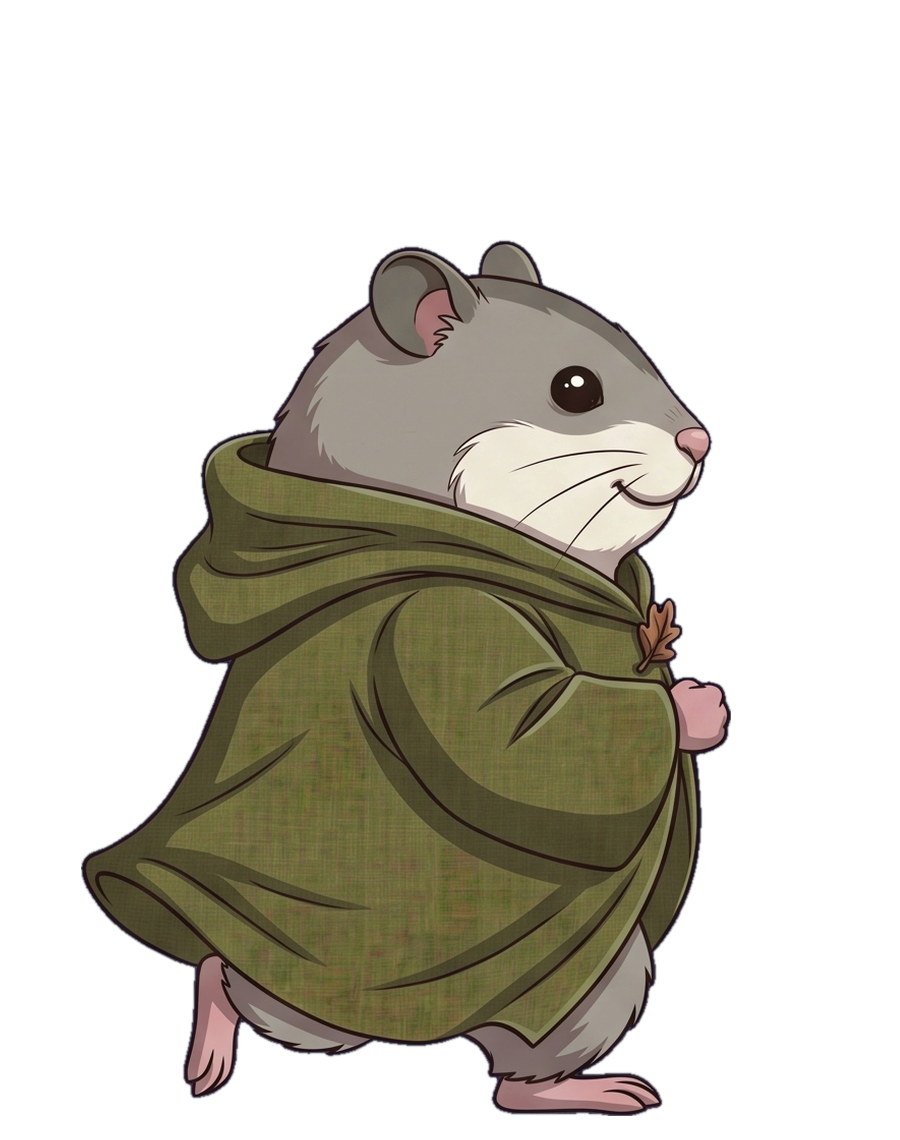
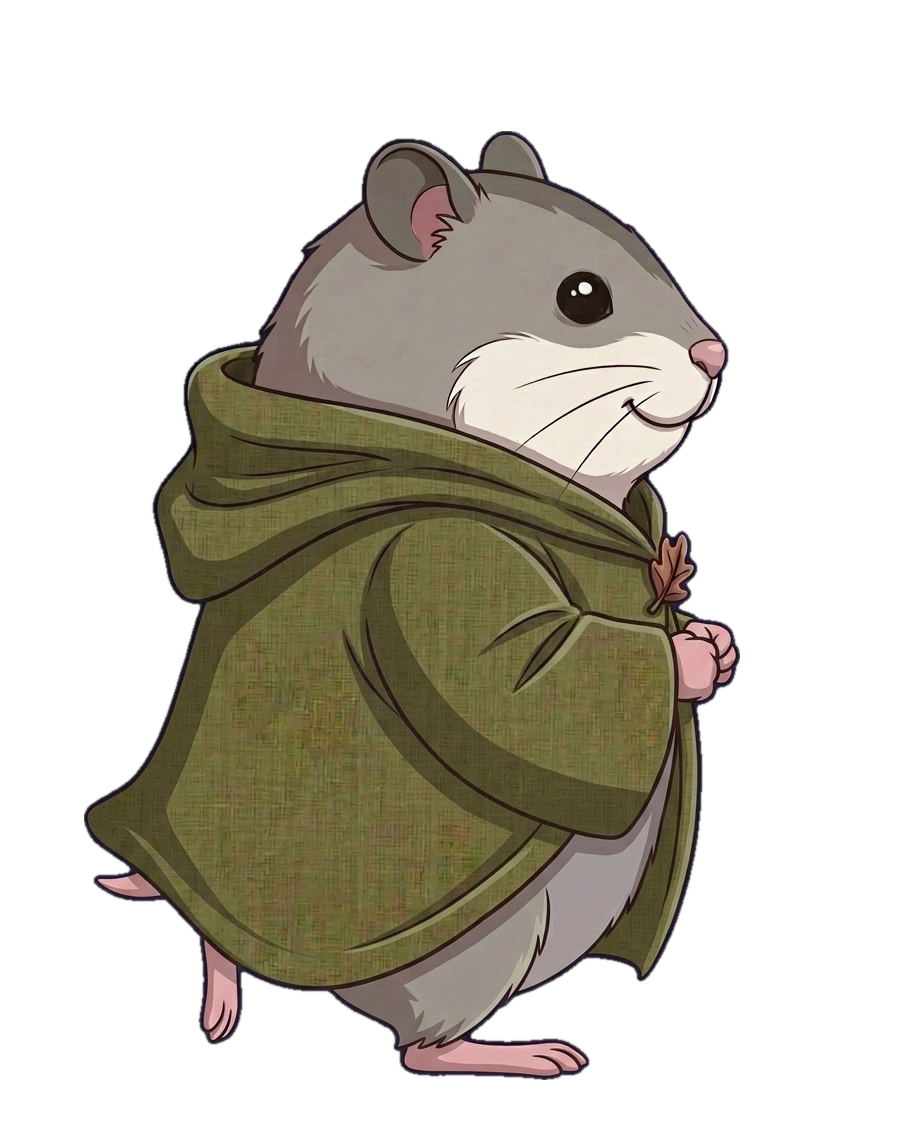
ムスビの走りを8コマ（1コマずつ生成）に差し替え。取りこみで、コマの上下位置を残す

diff --git a/frontend/src/components/ForestRun.tsx b/frontend/src/components/ForestRun.tsx
@@ -124,8 +124,8 @@ const FLYERS: Record<string, FlyerKind> = {
 };
 const BIRD_FRAMES = 4;
 
-const RUN_RATE = 9; // 走りのコマを進める速さ（コマ/秒）
-const RUN_FRAMES = Array.from({ length: 4 }, (_, i) => `musubi_walk_${String(i + 1).padStart(2, '0')}`);
+const RUN_RATE = 12; // 走りのコマを進める速さ（コマ/秒）
+const RUN_FRAMES = Array.from({ length: 8 }, (_, i) => `musubi_walk_${String(i + 1).padStart(2, '0')}`);
 const MUSUBI_NAMES = [...RUN_FRAMES, 'musubi_jump_up_right', 'musubi_fall_right', 'musubi_land_right', 'musubi_hit_right', 'musubi_cheer_front_1', 'musubi_sad_front'];
 const IMAGE_NAMES = [
   ...RUN_FRAMES,

diff --git a/frontend/src/minigames/acornCatch.ts b/frontend/src/minigames/acornCatch.ts
@@ -13,8 +13,8 @@ const MUSUBI_H = 132;
 const MUSUBI_SINK = 12;
 const FACE_DX = 26;
 const CATCH_HALF = 62; // 受けとめられる、横の幅（ムスビの中心から）
-const RUN_RATE = 9; // 走りのコマを進める速さ（コマ/秒）
-const RUN_FRAMES = Array.from({ length: 4 }, (_, i) => `musubi_walk_${String(i + 1).padStart(2, '0')}`);
+const RUN_RATE = 12; // 走りのコマを進める速さ（コマ/秒）
+const RUN_FRAMES = Array.from({ length: 8 }, (_, i) => `musubi_walk_${String(i + 1).padStart(2, '0')}`);
 
 interface Conf {
   target: number; // 集める点数

diff --git a/tools/split_run_sheet.py b/tools/split_run_sheet.py
@@ -33,6 +33,7 @@ def cut_sheet(sheet):
     a = sheet.split()[-1].point(lambda v: 255 if v > 128 else 0)
     rows = runs([a.crop((0, y, W, y + 1)).getbbox() is not None for y in range(H)])
     crops = []
+    bottoms = []
     for (y0, y1) in rows:
         band = a.crop((0, y0, W, y1))
         cols = runs([band.crop((x, 0, x + 1, y1 - y0)).getbbox() is not None for x in range(W)])
@@ -45,9 +46,11 @@ def cut_sheet(sheet):
                     r, g, b, al = px0[xx, yy]
                     if al and b > r + 40 and b > g + 40:
                         px0[xx, yy] = (r, g, b, 0)
-            frame = frame.crop(frame.split()[-1].getbbox())
+            bb = frame.split()[-1].getbbox()
+            frame = frame.crop(bb)
             crops.append(frame)
-    return crops
+            bottoms.append(y0 + bb[3])  # 絵の中での、いちばん下の位置
+    return crops, bottoms
 
 
 def main():
@@ -61,11 +64,13 @@ def main():
     else:
         srcs = [big if big.exists() else GAMES / 'musubi_run_sheet.png']
     crops = []
+    bottoms = []
     for src in srcs:
         sheet = Image.open(src).convert('RGBA')
-        part = cut_sheet(sheet)
+        part, bot = cut_sheet(sheet)
         print('source', src.name, sheet.size, '->', len(part), 'frames')
         crops += part
+        bottoms += bot
     # 出力の大きさの倍率：切り出したコマの、体の高さ（中央値）から決める。基準（k=1）は、体の高さ約290。
     # 大きすぎると、スマホで重いので、最大3倍（900×1140）まで
     hs = sorted(f.size[1] for f in crops)
@@ -94,8 +99,11 @@ def main():
     heights = sorted(head_height(f) for f in crops)
     median = heights[len(heights) // 2]
     frames = []
-    for f in crops:
+    lifts = []
+    ref_bottom = max(bottoms)  # いちばん低い足（地面についている足）の位置
+    for f, bt in zip(crops, bottoms):
         kk = min(1.3, max(0.8, median / head_height(f)))
+        lifts.append((ref_bottom - bt) * kk)
         if abs(kk - 1) > 0.01:
             f = f.resize((round(f.size[0] * kk), round(f.size[1] * kk)), Image.LANCZOS)
         fa = f.split()[-1]
@@ -111,11 +119,13 @@ def main():
                     tot += 1
         frames.append((f, xs / tot if tot else fw / 2))
 
-    # 体の上下のゆれが大きすぎるので、頭の高さを、平均に近づける（足の高さは、そのぶん、動く）
-    tops = [BASE - f.size[1] for f, _ in frames]
+    # 体の上下のゆれ：1コマずつの絵（singles）は、絵の中での、体の上下・足の浮きを、そのまま残す。
+    # シートの絵は、ゆれが大きすぎるので、頭の高さを、平均に近づける（足の高さは、そのぶん、動く）
+    keep = 1.0 if singles else BOB_KEEP
+    tops = [BASE - f.size[1] - (lifts[i] if singles else 0) for i, (f, _) in enumerate(frames)]
     mean_top = sum(tops) / len(tops)
     for n, ((frame, cx), top) in enumerate(zip(frames, tops), start=1):
-        target_top = mean_top + (top - mean_top) * BOB_KEEP
+        target_top = mean_top + (top - mean_top) * keep
         canvas = Image.new('RGBA', (CW, CH), (0, 0, 0, 0))
         ox = int(round(CW / 2 - cx))
         canvas.alpha_composite(frame, (ox, int(round(target_top))))

diff --git a/tools/chroma_key.py b/tools/chroma_key.py
@@ -17,6 +17,7 @@ def main():
     ap.add_argument('--thresh', type=int, default=60, help='背景色と見なす色の差の許容')
     ap.add_argument('--global-key', action='store_true', help='背景色に近い画素を、つながっていなくても、すべて透明にする（絵の中に、背景と同じ色の穴があるとき）')
     ap.add_argument('--black', action='store_true', help='黒背景の光の効果：明るさを透明度にする')
+    ap.add_argument('--no-crop', action='store_true', help='余白を切り詰めない（コマの、絵の中での、上下の位置を残したいとき）')
     ap.add_argument('--keep-margin', type=int, default=8, help='切り詰めた後に残す余白（px）')
     a = ap.parse_args()
 
@@ -40,7 +41,7 @@ def main():
                     c = pr[x, y]
                     po[x, y] = (min(255, c[0] * 255 // av), min(255, c[1] * 255 // av), min(255, c[2] * 255 // av), av)
         box = alpha.point(lambda v: 255 if v > 12 else 0).getbbox()
-        if box:
+        if box and not a.no_crop:
             m = a.keep_margin
             out = out.crop((max(0, box[0] - m), max(0, box[1] - m), min(w, box[2] + m), min(h, box[3] + m)))
         out.save(a.dst)
@@ -94,7 +95,7 @@ def main():
                     c[dom] = others + 4
                     pix[x, y] = (c[0], c[1], c[2], aa)
     box = alpha.point(lambda v: 255 if v > 8 else 0).getbbox()
-    if box:
+    if box and not a.no_crop:
         m = a.keep_margin
         box = (max(0, box[0] - m), max(0, box[1] - m), min(w, box[2] + m), min(h, box[3] + m))
         im = im.crop(box)
